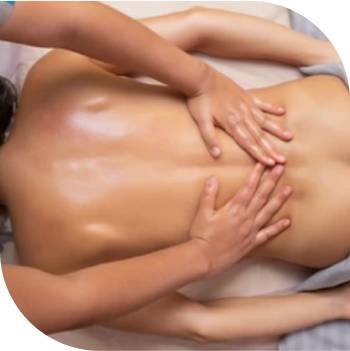
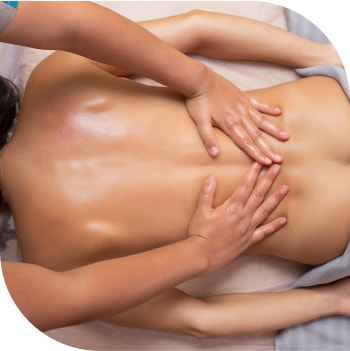
Пофиксил картинки

diff --git a/css/main.min.css b/css/main.min.css
@@ -1,1 +1,1 @@
-:root{--about-bg-color: rgba(255, 214, 0, 0.28);--main-text-color: #000}.container{margin-left:auto;margin-right:auto;padding-left:15px;padding-right:15px}@media screen and (min-width: 480px){.container{width:480px;font-size:16px;line-height:19px}}@media screen and (min-width: 768px){.container{width:768px;line-height:21px}}@media screen and (min-width: 1200px){.container{width:1250px;font-size:25px;line-height:29.3px}}.text{background:rgba(255,214,0,.28);border:2px dashed #000;border-radius:50px}.title{font-size:22px;line-height:26px}@media screen and (min-width: 768px){.title{padding-bottom:50px;font-size:30px;line-height:35px}}@media screen and (min-width: 1200px){.title{padding-bottom:50px;font-size:40px;line-height:47px}}.topNubex{display:flex;align-items:center;justify-content:center;position:fixed;right:15px;bottom:15px;width:60px;height:60px;background-color:var(--about-bg-color);fill:var(--main-text-color);box-shadow:0px 2px 9px rgba(0,0,0,.5);transform:scale(1);transition:transform 200ms linear;border-radius:50%;border:1px dashed #000;cursor:pointer;z-index:2}#topNubex:hover{transform:scale(1.1)}body{position:relative;font-family:"Roboto",sans-serif;font-style:normal;font-weight:400;text-align:center;color:#000}.visually-hidden{position:absolute;width:1px;height:1px;margin:-1px;border:0;padding:0;white-space:nowrap;-webkit-clip-path:inset(100%);clip-path:inset(100%);clip:rect(0 0 0 0);overflow:hidden}img{display:block}h1,h2,h3{font-weight:700;margin:0;padding:0}a{display:inline-block;text-decoration:none;color:currentColor}p{padding:0;margin:0}button{padding:0;margin:0;outline:none}ul{padding:0;margin:0;list-style:none}li{margin:0;padding:0}.messenger{display:flex;align-items:center;justify-content:center;position:fixed;right:15px;bottom:85px;cursor:pointer;z-index:2;border-radius:50%;transform:scale(1);transition:transform 200ms linear;box-shadow:0px 2px 9px rgba(0,0,0,.5)}.messenger-telegram{display:flex;align-items:center;justify-content:center;position:fixed;right:15px;bottom:155px;cursor:pointer;z-index:2;border-radius:50%;transform:scale(1);transition:transform 200ms linear;box-shadow:0px 2px 9px rgba(0,0,0,.5)}.messenger:hover,.messenger-telegram:hover{transform:scale(1.1)}.messenger-icon{width:60px;height:60px}.header-flex{display:flex;justify-content:space-between;align-items:center}.menu{margin-right:auto}@media screen and (min-width: 768px){.menu{margin-left:98px}}@media screen and (min-width: 1200px){.menu{margin-left:236px}}.menu-list{display:flex;align-items:center}@media screen and (max-width: 767px){.menu-list{margin-left:20px;justify-content:space-between}}@media screen and (max-width: 767px){.menu-list .menu-item:nth-child(1){display:none}}@media screen and (min-width: 768px){.menu-list .menu-item:nth-child(1){margin-right:104px}}@media screen and (min-width: 1200px){.menu-list .menu-item:nth-child(1){margin-right:90px}}.menu-list :not(:last-child){margin-right:15px}@media screen and (min-width: 768px){.menu-list :not(:last-child){margin-right:43px}}@media screen and (min-width: 1200px){.menu-list :not(:last-child){margin-right:40px}}.menu-item{font-weight:700;padding:20px 0;cursor:pointer;transform:scale(1);transition:transform 250ms linear,color 250ms linear}.menu-link a{display:flex;align-items:center}@media screen and (min-width: 768px){.menu-link a{font-size:16px}}@media screen and (min-width: 1200px){.menu-link a{font-size:20px}}.menu-link:hover,.menu-link:focus{transform:scale(1.1);color:rgba(255,214,0,.6)}.logo-icon{width:195px;height:58px}@media screen and (max-width: 767px){.logo-icon{width:152px;height:45px}}.header-icon{fill:currentColor;margin-right:10px}.hero{margin-left:auto;margin-right:auto;text-align:center;background-position-y:center;background-size:cover;background-repeat:no-repeat;max-width:767px;margin-bottom:10px;background-image:url(../img/hero-mob.jpg)}@media screen and (min-width: 768px){.hero{max-width:1199px;margin-bottom:34px;background-image:url(../img/hero-tab.jpg)}}@media screen and (min-width: 1200px){.hero{max-width:1920px;margin-bottom:34px;background-image:url(../img/hero2.jpg)}}.hero-title{width:100%;color:#fff;text-shadow:0px 4px 4px rgba(0,0,0,.25);margin-left:auto;margin-right:auto;font-size:20px;line-height:23px;padding:62px 0 47px 0}@media screen and (min-width: 768px){.hero-title{font-size:40px;line-height:59px;padding:84px 0 90px 0}}@media screen and (min-width: 1200px){.hero-title{font-size:50px;line-height:59px;padding:215px 0 64px 0}}.hero-button{font-weight:700;line-height:29px;text-align:center;color:#fff;background-color:rgba(255,214,0,.6);border-radius:50px;transform:scale(1);transition:transform 250ms linear,background-color 250ms linear;font-size:16px;padding:17px 28px;margin-bottom:95px}@media screen and (min-width: 768px){.hero-button{font-size:18px;padding:23px 38px;margin-bottom:108px}}@media screen and (min-width: 1200px){.hero-button{font-size:25px;padding:26px 44px;margin-bottom:160px}}.hero-button:hover,.hero-button:focus{transform:scale(1.1);background-color:rgba(255,214,0,.7)}.about{position:relative;margin-bottom:30px}@media screen and (min-width: 768px){.about{margin-bottom:50px}}@media screen and (min-width: 1200px){.about{margin-bottom:147px}}.about-img{background:linear-gradient(0deg, rgba(255, 214, 0, 0.03), rgba(255, 214, 0, 0.03));border-radius:300px;width:200px}@media screen and (max-width: 767px){.about-img{margin-left:auto;margin-right:auto;margin-bottom:10px}}@media screen and (min-width: 768px){.about-img{width:249px;padding-right:22px}}@media screen and (min-width: 1200px){.about-img{width:490px;padding-right:60px}}@media screen and (min-width: 768px){.about-list{display:flex;justify-content:space-between;align-items:center}}@media screen and (max-width: 767px){.about-text{margin-left:auto;margin-right:auto;padding:10px}}@media screen and (min-width: 768px){.about-text{display:flex;justify-content:space-between;align-items:center;font-size:16px;line-height:21px;padding:38px 10px}}@media screen and (min-width: 1200px){.about-text{font-size:25px;line-height:31px;padding:52px 10px}}.about-matrix{display:none}@media screen and (min-width: 1200px){.about-matrix{display:block;position:absolute;top:117%;left:50%;transform:translate(-50%, -50%)}}.services{position:relative}.services-img{display:none}@media screen and (min-width: 768px){.services-img{display:block;width:200px}}@media screen and (min-width: 1200px){.services-img{display:block;width:350px}}.services-matrix{display:none}@media screen and (min-width: 1200px){.services-matrix{display:block;position:absolute;top:100%;left:50%;transform:translate(-50%, -50%)}}@media screen and (min-width: 768px){.services-list{display:flex;justify-content:space-between;align-items:flex-start;flex-wrap:wrap}}@media screen and (min-width: 768px){.services-list :nth-last-child(-n+2){margin-bottom:0px}}.services-item{margin-bottom:30px}@media screen and (min-width: 768px){.services-item.text{max-width:447px;max-height:207px}}@media screen and (min-width: 1200px){.services-item.text{max-width:790px;max-height:350px}}.services-text{padding:0 10px 10px}@media screen and (min-width: 768px){.services-text{font-size:16px;padding:0 10px 29px 10px}}@media screen and (min-width: 1200px){.services-text{font-size:25px}}.services-title{padding:13px 10px;line-height:22px;font-size:18px}@media screen and (min-width: 768px){.services-title{padding:13px 0;font-size:19px}}@media screen and (min-width: 1200px){.services-title{line-height:32px;padding:13px 0 29px 0;font-size:27px}}.price{position:relative}@media screen and (max-width: 767px){.price-title{padding-bottom:30px}}@media screen and (min-width: 768px){.price-title{padding-top:48px}}@media screen and (min-width: 1200px){.price-title{padding-top:60px}}.price-text{text-align:center;max-width:1100px;margin-left:auto;margin-right:auto;margin-bottom:20px;padding:20px 10px}@media screen and (min-width: 768px){.price-text{padding:21px 10px}}@media screen and (min-width: 1200px){.price-text{padding:45px 10px}}.price-img{display:none}@media screen and (min-width: 1200px){.price-img{display:block;position:absolute;top:82%;left:22%;transform:translate(-50%, -50%)}}.price-img__second{display:none}@media screen and (min-width: 1200px){.price-img__second{display:block;position:absolute;top:82.4%;left:77.5%;transform:translate(-50%, -50%)}}.price-button{font-weight:700;line-height:29px;text-align:center;color:#fff;background-color:rgba(255,214,0,.8);border-radius:50px;transform:scale(1);transition:transform 250ms linear,background-color 250ms linear;font-size:16px;padding:17px 28px;margin-bottom:20px}@media screen and (min-width: 768px){.price-button{font-size:18px;padding:23px 38px;margin-bottom:20px}}@media screen and (min-width: 1200px){.price-button{font-size:25px;padding:26px 44px;margin-bottom:80px}}.price-button:hover,.price-button:focus{transform:scale(1.1);background-color:#ffd600}.footer{box-sizing:border-box;border-top:2px dashed #000}.footer-text{font-weight:700;font-size:14px;padding:10px 0}@media screen and (min-width: 768px){.footer-text{font-size:20px}}.footer-box{display:flex;align-items:center;justify-content:center}/*# sourceMappingURL=main.min.css.map */
+:root{--about-bg-color: rgba(255, 214, 0, 0.28);--main-text-color: #000}.container{margin-left:auto;margin-right:auto;padding-left:15px;padding-right:15px}@media screen and (min-width: 480px){.container{width:480px;font-size:16px;line-height:19px}}@media screen and (min-width: 768px){.container{width:768px;line-height:21px}}@media screen and (min-width: 1200px){.container{width:1200px;font-size:25px;line-height:29.3px}}.text{background:rgba(255,214,0,.28);border:2px dashed #000;border-radius:50px}.title{font-size:22px;line-height:26px}@media screen and (min-width: 768px){.title{padding-bottom:50px;font-size:30px;line-height:35px}}@media screen and (min-width: 1200px){.title{padding-bottom:50px;font-size:40px;line-height:47px}}.topNubex{display:flex;align-items:center;justify-content:center;position:fixed;right:15px;bottom:15px;width:60px;height:60px;background-color:var(--about-bg-color);fill:var(--main-text-color);box-shadow:0px 2px 9px rgba(0,0,0,.5);transform:scale(1);transition:transform 200ms linear;border-radius:50%;border:1px dashed #000;cursor:pointer;z-index:2}#topNubex:hover{transform:scale(1.1)}body{position:relative;font-family:"Roboto",sans-serif;font-style:normal;font-weight:400;text-align:center;color:#000}.visually-hidden{position:absolute;width:1px;height:1px;margin:-1px;border:0;padding:0;white-space:nowrap;-webkit-clip-path:inset(100%);clip-path:inset(100%);clip:rect(0 0 0 0);overflow:hidden}img{display:block}h1,h2,h3{font-weight:700;margin:0;padding:0}a{display:inline-block;text-decoration:none;color:currentColor}p{padding:0;margin:0}button{padding:0;margin:0;outline:none}ul{padding:0;margin:0;list-style:none}li{margin:0;padding:0}.messenger{display:flex;align-items:center;justify-content:center;position:fixed;right:15px;bottom:85px;cursor:pointer;z-index:2;border-radius:50%;transform:scale(1);transition:transform 200ms linear;box-shadow:0px 2px 9px rgba(0,0,0,.5)}.messenger-telegram{display:flex;align-items:center;justify-content:center;position:fixed;right:15px;bottom:155px;cursor:pointer;z-index:2;border-radius:50%;transform:scale(1);transition:transform 200ms linear;box-shadow:0px 2px 9px rgba(0,0,0,.5)}.messenger:hover,.messenger-telegram:hover{transform:scale(1.1)}.messenger-icon{width:60px;height:60px}.header-flex{display:flex;justify-content:space-between;align-items:center}.menu{margin-right:auto}@media screen and (min-width: 768px){.menu{margin-left:98px}}@media screen and (min-width: 1200px){.menu{margin-left:190px}}.menu-list{display:flex;align-items:center}@media screen and (max-width: 767px){.menu-list{margin-left:20px;justify-content:space-between}}@media screen and (max-width: 767px){.menu-list .menu-item:nth-child(1){display:none}}@media screen and (min-width: 768px){.menu-list .menu-item:nth-child(1){margin-right:104px}}@media screen and (min-width: 1200px){.menu-list .menu-item:nth-child(1){margin-right:90px}}.menu-list :not(:last-child){margin-right:15px}@media screen and (min-width: 768px){.menu-list :not(:last-child){margin-right:43px}}@media screen and (min-width: 1200px){.menu-list :not(:last-child){margin-right:40px}}.menu-item{font-weight:700;padding:20px 0;cursor:pointer;transform:scale(1);transition:transform 250ms linear,color 250ms linear}.menu-link a{display:flex;align-items:center}@media screen and (min-width: 768px){.menu-link a{font-size:16px}}@media screen and (min-width: 1200px){.menu-link a{font-size:20px}}.menu-link:hover,.menu-link:focus{transform:scale(1.1);color:rgba(255,214,0,.6)}.logo-icon{width:195px;height:58px}@media screen and (max-width: 767px){.logo-icon{width:152px;height:45px}}.header-icon{fill:currentColor;margin-right:10px}.hero{margin-left:auto;margin-right:auto;text-align:center;background-position-y:center;background-size:cover;background-repeat:no-repeat;max-width:767px;margin-bottom:10px;background-image:url(../img/hero-mob.jpg)}@media screen and (min-width: 768px){.hero{max-width:1199px;margin-bottom:34px;background-image:url(../img/hero-tab.jpg)}}@media screen and (min-width: 1200px){.hero{max-width:1920px;margin-bottom:34px;background-image:url(../img/hero.jpg)}}@media screen and (min-width: 1200px)and (min-device-pixel-ratio: 2),screen and (min-width: 1200px)and (-webkit-min-device-pixel-ratio: 2),screen and (min-width: 1200px)and (min-resolution: 192dpi),screen and (min-width: 1200px)and (min-resolution: 2dppx){.hero{background-image:url(../../img/hero-x2.jpg)}}.hero-title{width:100%;color:#fff;text-shadow:0px 4px 4px rgba(0,0,0,.25);margin-left:auto;margin-right:auto;font-size:20px;line-height:23px;padding:62px 0 47px 0}@media screen and (min-width: 768px){.hero-title{font-size:40px;line-height:59px;padding:84px 0 90px 0}}@media screen and (min-width: 1200px){.hero-title{font-size:50px;line-height:59px;padding:215px 0 64px 0}}.hero-button{font-weight:700;line-height:29px;text-align:center;color:#fff;background-color:rgba(255,214,0,.6);border-radius:50px;transform:scale(1);transition:transform 250ms linear,background-color 250ms linear;font-size:16px;padding:17px 28px;margin-bottom:95px}@media screen and (min-width: 768px){.hero-button{font-size:18px;padding:23px 38px;margin-bottom:108px}}@media screen and (min-width: 1200px){.hero-button{font-size:25px;padding:26px 44px;margin-bottom:160px}}.hero-button:hover,.hero-button:focus{transform:scale(1.1);background-color:rgba(255,214,0,.7)}.about{position:relative;margin-bottom:30px}@media screen and (min-width: 768px){.about{margin-bottom:50px}}@media screen and (min-width: 1200px){.about{margin-bottom:147px}}.about-img{background:linear-gradient(0deg, rgba(255, 214, 0, 0.03), rgba(255, 214, 0, 0.03));border-radius:300px;width:200px}@media screen and (max-width: 767px){.about-img{margin-left:auto;margin-right:auto;margin-bottom:10px}}@media screen and (min-width: 768px){.about-img{width:249px;padding-right:22px}}@media screen and (min-width: 1200px){.about-img{width:490px;padding-right:60px}}@media screen and (min-width: 768px){.about-list{display:flex;justify-content:space-between;align-items:center}}@media screen and (max-width: 767px){.about-text{margin-left:auto;margin-right:auto;padding:10px}}@media screen and (min-width: 768px){.about-text{display:flex;justify-content:space-between;align-items:center;font-size:16px;line-height:21px;padding:38px 10px}}@media screen and (min-width: 1200px){.about-text{font-size:25px;line-height:31px;padding:52px 10px}}.about-matrix{display:none}@media screen and (min-width: 1200px){.about-matrix{display:block;position:absolute;top:117%;left:50%;transform:translate(-50%, -50%)}}.services{position:relative}.services-img{display:none}@media screen and (min-width: 768px){.services-img{display:block;width:200px}}@media screen and (min-width: 1200px){.services-img{display:block;width:350px}}.services-matrix{display:none}@media screen and (min-width: 1200px){.services-matrix{display:block;position:absolute;top:100%;left:50%;transform:translate(-50%, -50%)}}@media screen and (min-width: 768px){.services-list{display:flex;justify-content:space-between;align-items:flex-start;flex-wrap:wrap}}@media screen and (min-width: 768px){.services-list :nth-last-child(-n+2){margin-bottom:0px}}.services-item{margin-bottom:30px}@media screen and (min-width: 768px){.services-item.text{max-width:447px;max-height:207px}}@media screen and (min-width: 1200px){.services-item.text{max-width:790px;max-height:350px}}.services-text{padding:0 10px 10px}@media screen and (min-width: 768px){.services-text{font-size:16px;padding:0 10px 29px 10px}}@media screen and (min-width: 1200px){.services-text{font-size:25px}}.services-title{padding:13px 10px;line-height:22px;font-size:18px}@media screen and (min-width: 768px){.services-title{padding:13px 0;font-size:19px}}@media screen and (min-width: 1200px){.services-title{line-height:32px;padding:13px 0 29px 0;font-size:27px}}.price{position:relative}@media screen and (max-width: 767px){.price-title{padding-bottom:30px}}@media screen and (min-width: 768px){.price-title{padding-top:48px}}@media screen and (min-width: 1200px){.price-title{padding-top:60px}}.price-text{text-align:center;max-width:1100px;margin-left:auto;margin-right:auto;margin-bottom:20px;padding:20px 10px}@media screen and (min-width: 768px){.price-text{padding:21px 10px}}@media screen and (min-width: 1200px){.price-text{padding:45px 10px}}.price-img{display:none}@media screen and (min-width: 1200px){.price-img{display:block;position:absolute;top:82%;left:22%;transform:translate(-50%, -50%)}}.price-img__second{display:none}@media screen and (min-width: 1200px){.price-img__second{display:block;position:absolute;top:82.4%;left:77.5%;transform:translate(-50%, -50%)}}.price-button{font-weight:700;line-height:29px;text-align:center;color:#fff;background-color:rgba(255,214,0,.8);border-radius:50px;transform:scale(1);transition:transform 250ms linear,background-color 250ms linear;font-size:16px;padding:17px 28px;margin-bottom:20px}@media screen and (min-width: 768px){.price-button{font-size:18px;padding:23px 38px;margin-bottom:20px}}@media screen and (min-width: 1200px){.price-button{font-size:25px;padding:26px 44px;margin-bottom:80px}}.price-button:hover,.price-button:focus{transform:scale(1.1);background-color:#ffd600}.footer{box-sizing:border-box;border-top:2px dashed #000}.footer-text{font-weight:700;font-size:14px;padding:10px 0}@media screen and (min-width: 768px){.footer-text{font-size:20px}}.footer-box{display:flex;align-items:center;justify-content:center}/*# sourceMappingURL=main.min.css.map */

diff --git a/index.html b/index.html
@@ -89,7 +89,11 @@
     <div class="container">
       <ul class="about-list">
         <li >
-          <img src="./img/main.jpg" alt="" class="about-img">
+          <img 
+          srcset="./img/main.jpg 1x, ./img/main-x2.jpg 2x" 
+          src="./img/main.jpg" 
+          alt="Масажист" 
+          class="about-img">
         </li>
         <li>
   <p class="about-text text">Мене звуть Рудзевич Артем. <br>
@@ -105,7 +109,10 @@
     <img src="./img/matrix3.svg" alt="" class="services-matrix">
     <h2 id="services" class="title">Послуги</h2>
     <ul class="services-list">
-      <li class="services-item"> <img src="./img/1.jpg" alt="" class="services-img"> </li>
+      <li class="services-item"> 
+        <img 
+        srcset="./img/1.jpg 1x, ./img/1x2.jpg 2x" 
+        src="./img/1.jpg" alt="" class="services-img"> </li>
       <li class="services-item text">
         <h3 class="services-title">Класичний лікувально-оздоровчий масаж</h3>
         <p class="services-text ">Масаж який підходить для людей страждаючих хронічними болями у м'язах та суглобах, 
@@ -114,15 +121,24 @@
       <li class="services-item text">
         <h3 class="services-title">Класичний розслабляючий масаж</h3>
         <p class="services-text">Масаж  підходить для людей які навантажені більш психологічно ніж фізично, та не в змозі самостійно розслаблятися, постійно перебувають у стресі, такий масаж більше впливає на нервову систему ніж на  м'язи, покращується загальне самопочуття, сон та стресостійкість</p></li>
-      <li class="services-item"> <img src="./img/2.jpg" alt="" class="services-img"> </li>
-      <li class="services-item"> <img src="./img/3.jpg" alt="" class="services-img"> </li>
+      <li class="services-item"> 
+        <img 
+        srcset="./img/2.jpg 1x, ./img/2x2.jpg 2x" 
+        src="./img/2.jpg" alt="" class="services-img"> </li>
+      <li class="services-item"> 
+        <img 
+        srcset="./img/3.jpg 1x, ./img/3x2.jpg 2x" 
+        src="./img/3.jpg" alt="" class="services-img"> </li>
       <li class="services-item text">
         <h3 class="services-title">Класичний лімфодренажний масаж</h3>
         <p class="services-text">Масаж  який здебільшого призначають лікарі при певних проблемах з лімфо та кровообігом, може проводитися по всіх ділянках тіла або здебільшого на основних м'язових групах, таких як ноги та спина. Кількість сеансів також визначається лікарем але можна робити і без призначення та тільки значного ефекту можливо і не відчути</p></li>
       <li class="services-item text">
         <h3 class="services-title">Постізометрична релаксація</h3>
         <p class="services-text">Унікальний комплекс вправ який як і лікувально-оздоровчий масаж націлений на глибоку роботу з м'язами, відмінність його лише в тому що масаж при цьому не робиться, лише розтягування м'язів що дуже сильно знижуе неприємні або больові відчуття, можна робити як окремо так і в комплексі з лікувальним масажем.</p></li>
-      <li class="services-item"> <img src="./img/4.jpg" alt="" class="services-img"> </li>
+      <li class="services-item"> 
+        <img 
+        srcset="./img/4.jpg 1x, ./img/4x2.jpg 2x" 
+        src="./img/4.jpg" alt="" class="services-img"> </li>
     </ul>
   </section>
   <!-- Price -->

diff --git a/css/main.css b/css/main.css
@@ -24,7 +24,7 @@
 }
 @media screen and (min-width: 1200px) {
   .container {
-    width: 1250px;
+    width: 1200px;
     font-size: 25px;
     line-height: 29.3px;
   }
@@ -197,7 +197,7 @@ li {
 }
 @media screen and (min-width: 1200px) {
   .menu {
-    margin-left: 236px;
+    margin-left: 190px;
   }
 }
 
@@ -307,7 +307,12 @@ li {
   .hero {
     max-width: 1920px;
     margin-bottom: 34px;
-    background-image: url(../img/hero2.jpg);
+    background-image: url(../img/hero.jpg);
+  }
+}
+@media screen and (min-width: 1200px) and (min-device-pixel-ratio: 2), screen and (min-width: 1200px) and (-webkit-min-device-pixel-ratio: 2), screen and (min-width: 1200px) and (min-resolution: 192dpi), screen and (min-width: 1200px) and (min-resolution: 2dppx) {
+  .hero {
+    background-image: url(../../img/hero-x2.jpg);
   }
 }
 

diff --git a/sass/component/_hero.scss b/sass/component/_hero.scss
@@ -19,7 +19,15 @@
   @media screen and (min-width: 1200px){
     max-width: 1920px;
     margin-bottom: 34px;
-    background-image: url(../img/hero2.jpg);
+    background-image: url(../img/hero.jpg);
+    @media (min-device-pixel-ratio: 2),
+    (-webkit-min-device-pixel-ratio: 2),
+    (min-resolution: 192dpi),
+    (min-resolution: 2dppx) {
+      & {
+        background-image: url(../../img/hero-x2.jpg);
+      }
+    }
   }
 }
 .hero-title{

diff --git a/sass/utils/_variables.scss b/sass/utils/_variables.scss
@@ -22,7 +22,7 @@
   }
 
   @media screen and (min-width: 1200px) {
-    width: 1250px;
+    width: 1200px;
     font-size: 25px;
     line-height: 29.3px;
   }

diff --git a/sass/component/_header.scss b/sass/component/_header.scss
@@ -10,7 +10,7 @@
     margin-left: 98px;
   }
   @media screen and (min-width: 1200px){
-    margin-left: 236px;
+    margin-left: 190px;
   }
 }
 .menu-list{
